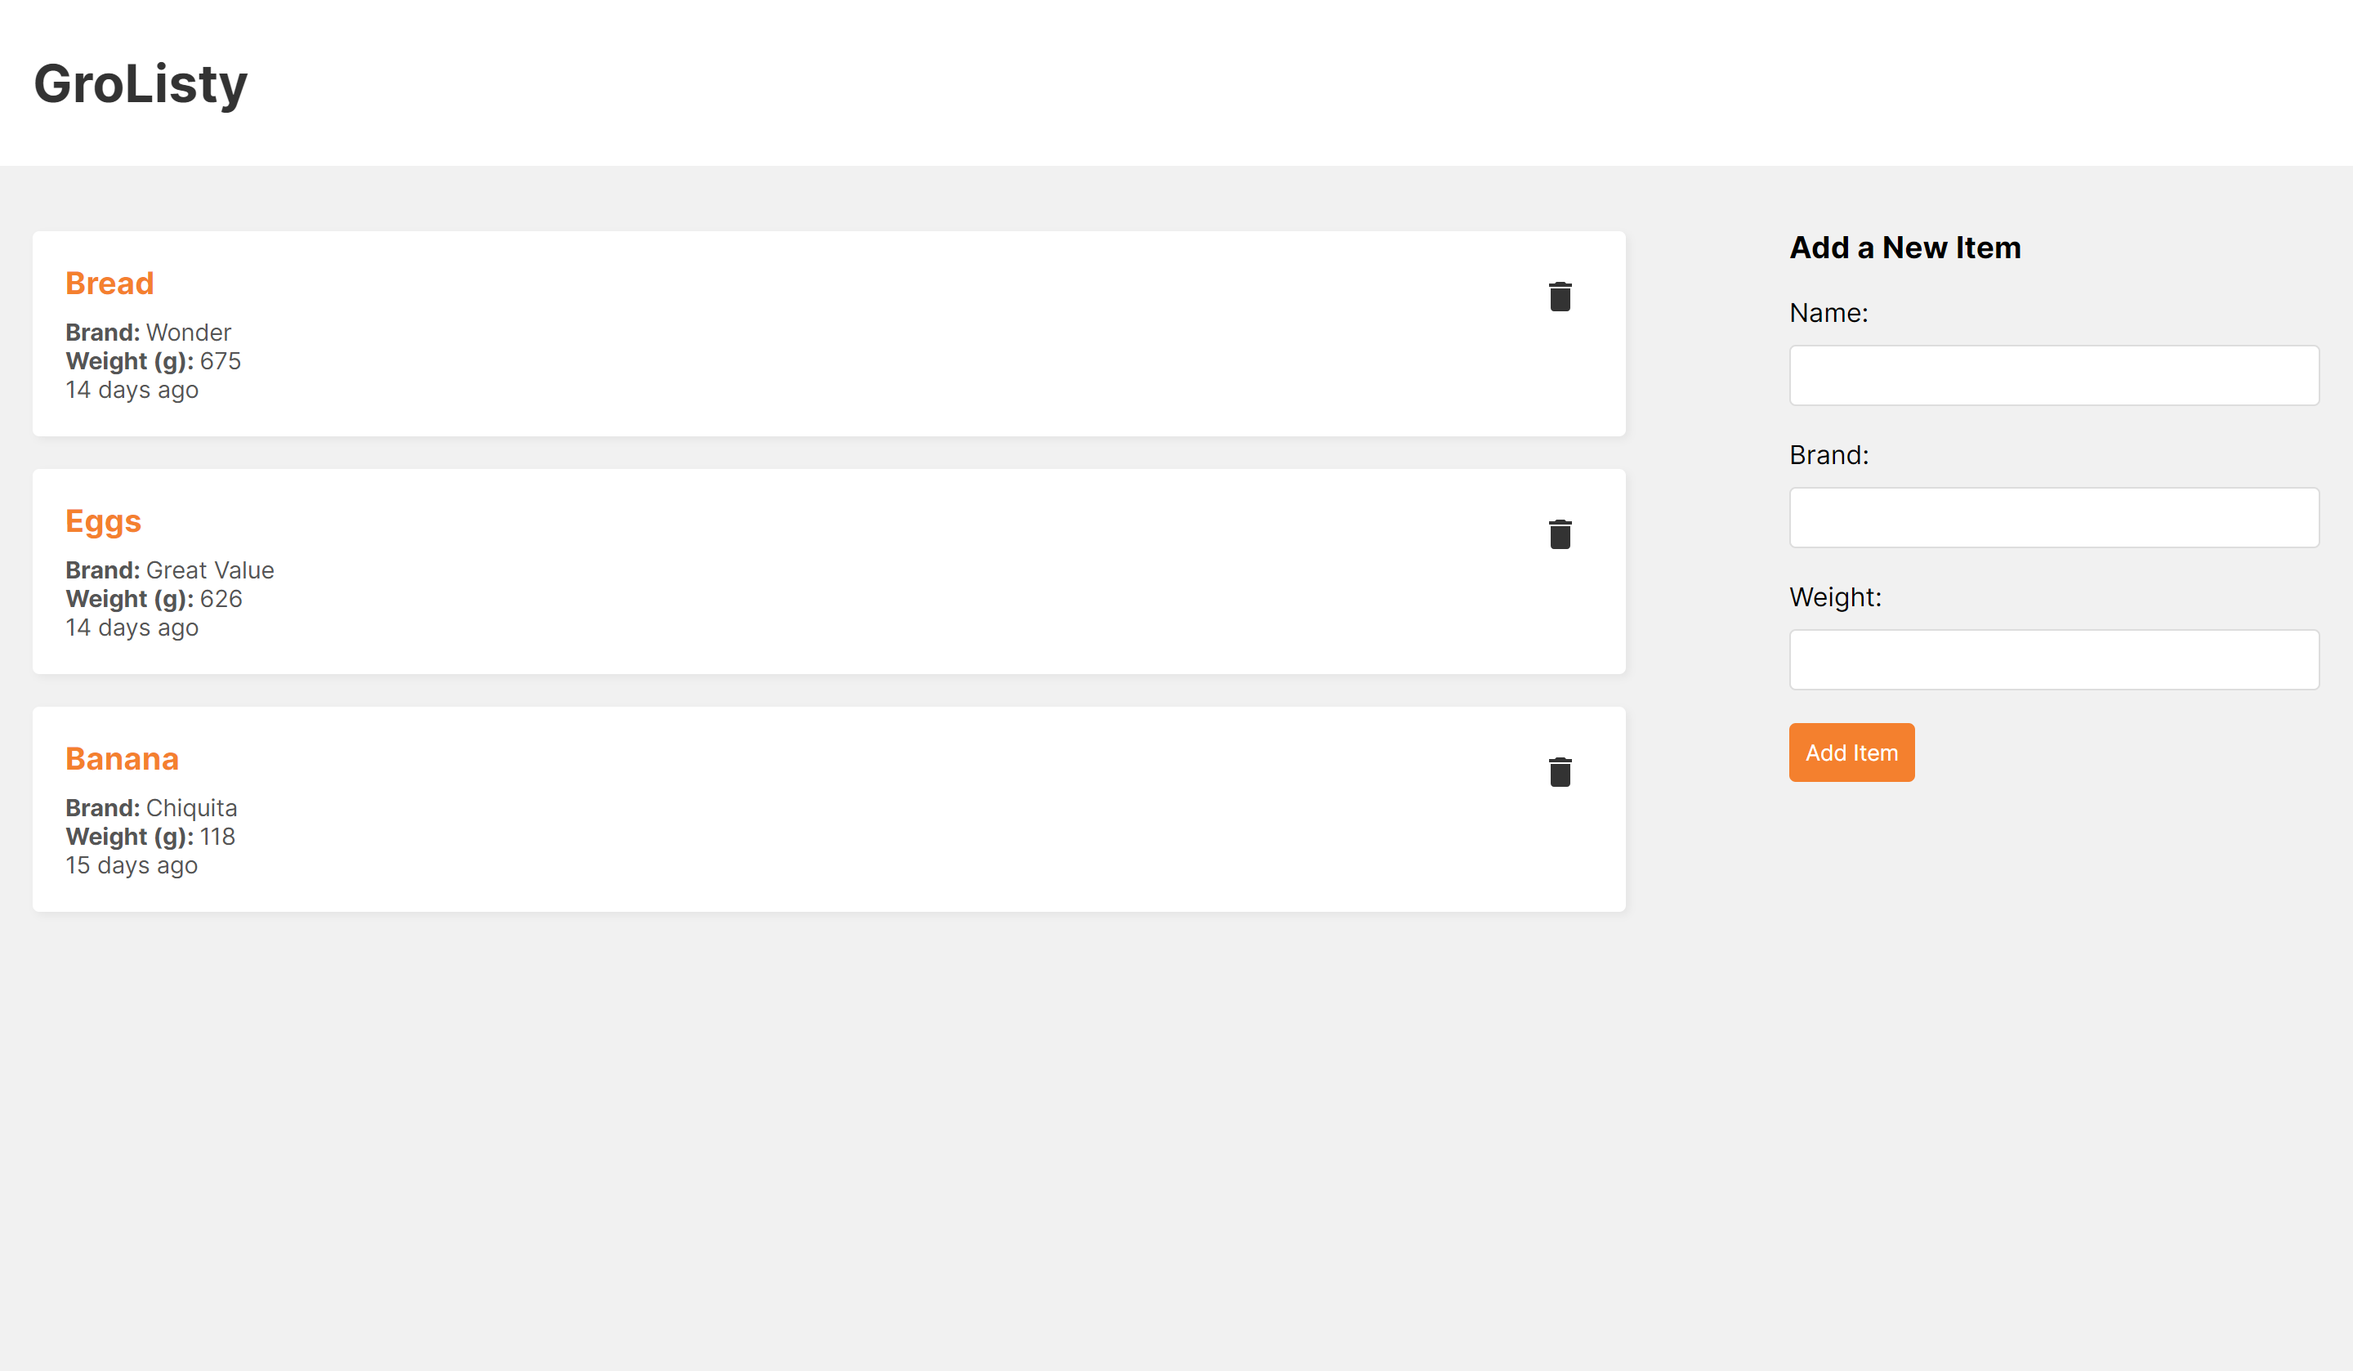
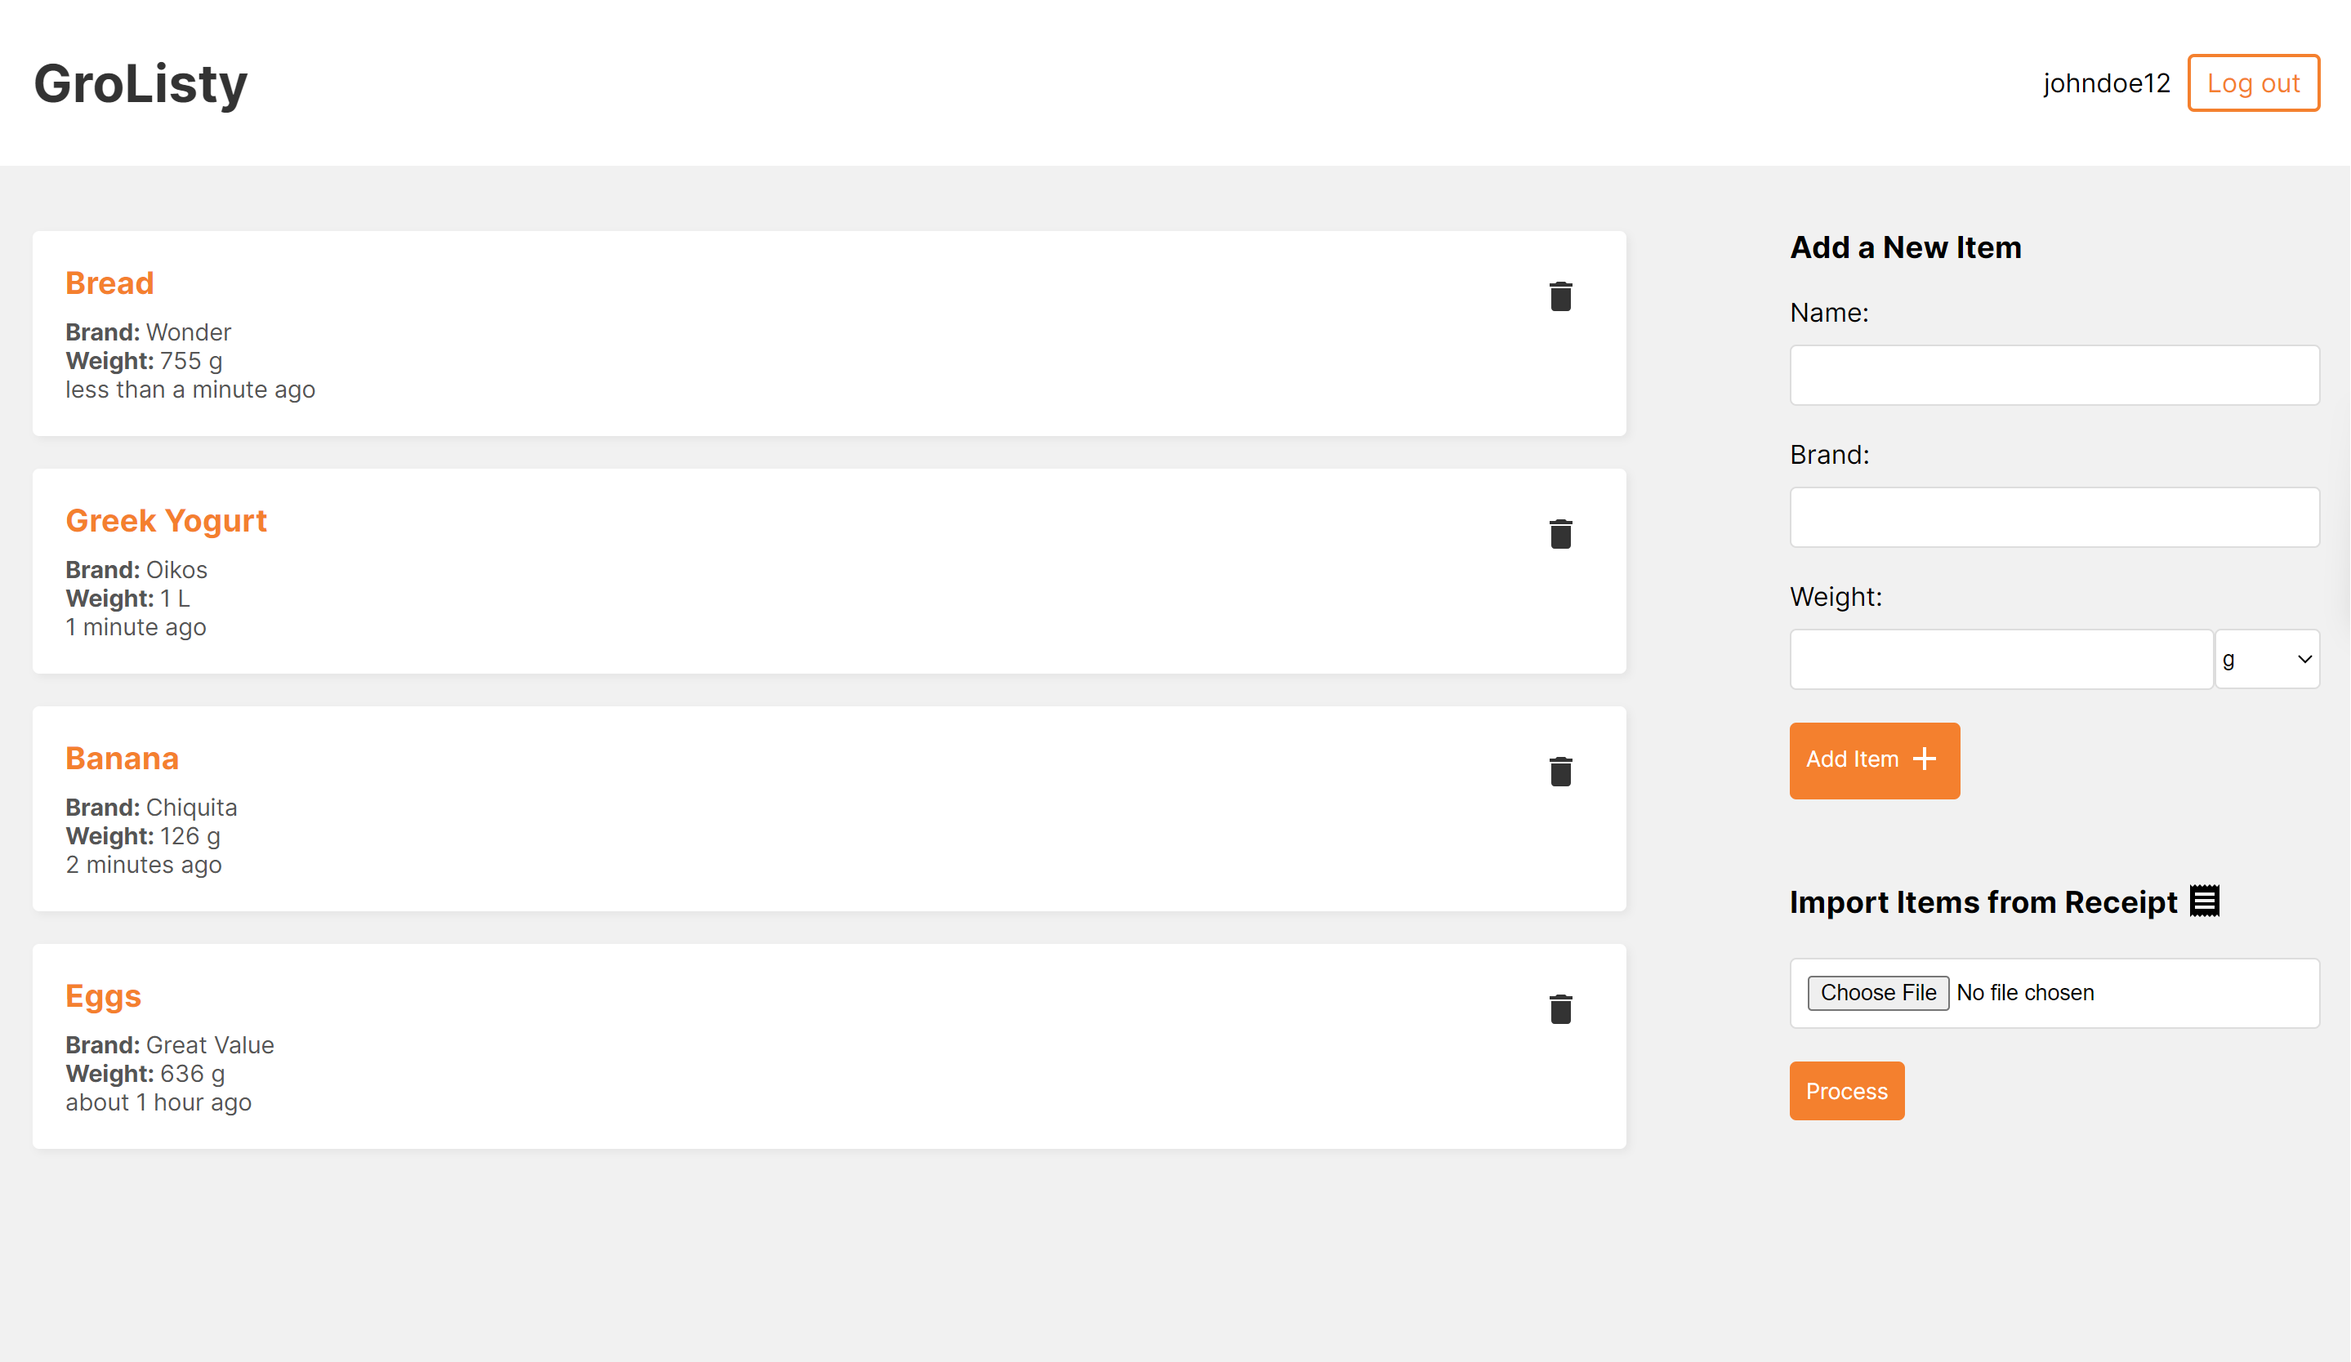
Updated GroListy project description and images

diff --git a/src/helpers/ProjectList.js b/src/helpers/ProjectList.js
@@ -6,6 +6,7 @@ import HangBotLogo from "../assets/hangbot-logo.png";
 import AssignmentThreeLogo from "../assets/assignment-three-logo.png";
 import GroListyImageOne from "../assets/grolisty-image-one.png";
 import GroListyImageTwo from "../assets/grolisty-image-two.png";
+import GroListyImageThree from "../assets/grolisty-image-three.png";
 import TabOrgImageOne from "../assets/taborg-image-one.png";
 import TabOrgImageTwo from "../assets/taborg-image-two.png";
 import IceGramImageOne from "../assets/icegram-image-one.png";
@@ -18,16 +19,17 @@ import AThreeWebsiteImageOne from "../assets/assignment-three-image-one.png";
 import AThreeWebsiteImageTwo from "../assets/assignment-three-image-two.png";
 
 
-
 export const ProjectList = [
     {
         name: "GroListy",
         logo: GroListyLogo,
-        skills: "JavaScript, MongoDB, ExpressJS, React, NodeJS, REST APIs, HTML, CSS",
+        skills: "JavaScript, MongoDB, ExpressJS, React, NodeJS, REST APIs, Postman, Puppeteer, Tesseract.js, JSON Web Tokens, HTML, CSS",
         imageOne: GroListyImageOne,
         imageTwo: GroListyImageTwo,
-        descriptionOne: "GroListy is a full-stack grocery list web application built using the MERN stack: MongoDB, ExpressJS, React, and NodeJS. I built this project to expand my web development skills and gain experience building and consuming REST APIs using a modern NoSQL database. Some important skills I have learned include the useReducer hook in React, which allowed me to update the context of the application on the frontend to make it responsive for the user. I added error handling to the item form and implemented useful error messages to display to the user. I also learned how to organize my components, pages and contexts into different folders. Lastly, I used the 60-30-10 color rule with CSS to improve the user interface's design.",
-        descriptionTwo: "I had difficulty implementing REST APIs, so to aid in solving issues I ran into during development, I used Postman to test API endpoints and for regression testing to ensure that they work as intended in later versions. In addition, I created a database schema for each item that is stored in the MongoDB Atlas Database by using the mongoose library. To further improve this project, I plan on adding authentication so that users can log into their personal account and view only items stored in their account. I also plan on adding an expiration date as key information that is tracked separately and is then used to notify the user to throw out expired goods and buy new groceries. One ambitious idea I have for the app, is to create a button that uses machine learning to automatically log items based on a picture that is used as input.",
+        imageThree: GroListyImageThree,
+        descriptionOne: "GroListy is a full-stack grocery list web application built using the MERN stack: MongoDB, ExpressJS, React, and NodeJS. I built this project to expand my web development skills and gain experience building and consuming REST APIs using a modern NoSQL database. Some important skills I have learned include the useReducer hook in React, which allowed me to update the context of the application on the frontend to make it responsive for the user. I added error handling to the item form and implemented useful error messages to display to the user. I also learned how to organize my components, pages and contexts using MVC architecture. Lastly, I used the 60-30-10 color rule with CSS to improve the user interface's design.",
+        descriptionTwo: "I had difficulty implementing REST APIs, so to aid in solving issues I ran into during development, I used Postman to test API endpoints and for regression testing to ensure that they work as intended in later versions. In addition, I created a database schema for each item that is stored in the MongoDB Atlas Database by using the mongoose library. I also took the project a step further by adding authentication so that users can log into their personal account and view only items stored in their account with an email by using JSON Web Tokens, bcrypt and validator. I had to create new APIs to handle signing up and logging in of users and ensure that both the backend and frontend were secure to prevent users from injecting data to the database without logging in.",
+        descriptionThree: "After months of testing and research, I was able to create a Receipt OCR feature for the app. It allows users to input an image of a receipt that will automatically extract product information from vendors to be entered into their list. This saves time for the user having to manually input each item on a large list of items bought from a grocery store. It uses Tesseract.js optical character recognition to extract SKU numbers from the receipt, then it web scrapes on the vendor's website by using Puppeteer headless browsing to parse key information needed to add an item to the list. I made the items editable so that if there are any inaccuracies in the product being imported, the user can change them before adding them all to their list. I also plan on adding an expiration date as key information that is tracked separately and is then used to notify the user to throw out expired goods and buy new groceries.",
         link: "https://github.com/mansoorhu10/grolisty",
     },
     {
@@ -36,8 +38,10 @@ export const ProjectList = [
         skills: "JavaScript, React, Chrome tabs and storage APIs, HTML, CSS",
         imageOne: TabOrgImageOne,
         imageTwo: TabOrgImageTwo,
+        imageThree: null,
         descriptionOne: "TabOrg is a tab organizer chrome extension that is designed to help save google chrome tabs into groups for later use. I built this project from scratch without React and styling initially, for a high school computer science course. Then later on, I reworked the entire extension to create an interactive user interface using React. I had to redo how the extension saves tabs into groups to include new information so that I could add new features that were not available in the first version of the project. I even updated the manifest_version of the project since the original extension was using a deprecated version, which ultimately pushed me to use the newest Chrome storage API methods to save data.",
         descriptionTwo: "I gained lots of experience using the Chrome tabs and storage API to create functionality for the extension and I also learned about how to use asynchronous functions in JavaScript. Aside from the dark mode toggle button, this entire project was designed and created from scratch and because I was inspired by how frustrating it was to manage important tabs that I needed open for school.",
+        descriptionThree: null,
         link: "https://github.com/mansoorhu10/TabOrg",
     },
     {
@@ -46,8 +50,10 @@ export const ProjectList = [
         skills: "Firebase, React, JavaScript, HTML, CSS",
         imageOne: IceGramImageOne,
         imageTwo: IceGramImageTwo,
+        imageThree: null,
         descriptionOne: "IceGram is a photo gallery web app created with React and Firebase. This was an edit of a YouTube project tutorial called FireGram. Users can add images to the site and view them later as they are saved in a non-relational database. I learned how to use Firebase's firestore and storage to save images. I also used the framer-motion library to aid in creating aesthetically pleasing animations for adding images to the webpage.",
         descriptionTwo: "It also includes features like being able to click on an image in order to enlarge it and tracking the progress of an image being uploaded to the webpage and displaying it using a progress bar with JavaScript logic. I hope to continue working on this project in the future by learning how to add user authentication to it and learning how to improve security for the database that stores data.",
+        descriptionThree: null,
         link: "https://github.com/mansoorhu10/icegram",
     },
     {
@@ -56,8 +62,10 @@ export const ProjectList = [
         skills: "Python, Pygame",
         imageOne: CalmifyImageOne,
         imageTwo: CalmifyImageTwo,
+        imageThree: null,
         descriptionOne: "Calmify is a project I collaborated on with Faris Choudhry during UofTHacks VIII. It is a stress-relief application, designed to improve the mental health of users through a series of minigames. The program can be used as a timer for 25 minutes to motivate users to work. Once the timer finishes, a minigame becomes playable with a 5 minute timer. For demo purposes, we decided to create 1 of our 5 minigames called Coin Quest. In this game, the player has to collect as many coins until the timer ends, in order to reach a high score. Along with relaxing music and rewarding sound effects, the game serves as a great way to take a break from work. The 25 minute and 5 minute timers are derived from a time management method called the Pomodoro technique. It is an amazing way to focus on a task, while still regularly taking breaks to avoid the buildup of stress and anxiety. Overall, it thoroughly impacts people by encouraging them to maintain a positive and determined mindset while working by rewarding them with breaks, all of which contribute to a stronger mental health.",
         descriptionTwo: "We built Calmify using a Python module called Pygame. We programmed a player, button and coin class to keep everything organized and initialized instances with ease. Our main game loop is located in gameloop(). It holds all the code responsible for running Coin Quest. It contains the character movement, game timer and other features such as keeping count of the score. One aspect of the project that I'm proud of us for accomplishing is figuring out how to create the user interface for the main menu. We were able to apply newly gained knowledge about Pygame to create a menu system that seamlessly integrated with the other parts of the program during the hackathon.",
+        descriptionThree: null,
         link: "https://github.com/mansoorhu10/Calmify",
     },
     {
@@ -66,8 +74,10 @@ export const ProjectList = [
         skills: "Python, Pygame",
         imageOne: HangBotImageOne,
         imageTwo: HangBotImageTwo,
+        imageThree: null,
         descriptionOne: "HangBot is a project that I worked on alongside a team of three other members during Hack The North 2020++, an online hackathon. This program is an implementation of the popular game known as 'Hangman'. The word bank includes words that relate to topics like technology and the sciences. Once the game begins, the player can input a guess by pressing a key on their keyboard. There is a score counter, music, and sound effects, as well as win and lose screens. One of the fundamental skills I learned during this project was the ability to manage a large project efficiently. This was my first hackathon project with a group of people, so as a team we learned to collaborate by splitting up tasks and combining separate components that we were simultaneously working on by communicating effectively.",
         descriptionTwo: "I took responsibility of improving the user's gameplay experience by implementing music and sound effects using the Pygame mixer library. I also aided in creating a string storage system using arrays and efficient conditional statements which contributed to a decrease in unused memory. Additionally, I improved the screen changing system by implementing screen numbers with conditional statements and Boolean variables.",
+        descriptionThree: null,
         link: "https://github.com/Wevie0/HacktheNorth2020",
     },
     {
@@ -76,8 +86,10 @@ export const ProjectList = [
         skills: "HTML, CSS",
         imageOne: AThreeWebsiteImageOne,
         imageTwo: AThreeWebsiteImageTwo,
+        imageThree: null,
         descriptionOne: "This is my Assignment 3 submission for an Introduction to Website Design and Development course that I took in the Winter 2022 semester. It incorporates many components of HTML, CSS, and design fundamentals that I learned from the course. The prompt for this assignment was to create an HTML website with an external CSS style sheet that spans across at least three separate webpages and can cover any topic of choice. So, I decided to create a website about one of my favourite foods: sushi.",
         descriptionTwo: "I focused heavily on making an aesthetically appealing website with amazing UI design. I also specifically included a side navigation menu that links to subheadings within a specific page to improve navigability. The project portfolio website you are on right now builds on the fundamentals of web design that I applied in this earlier project.",
+        descriptionThree: null,
         link: "https://github.com/mansoorhu10/A3-Website-Design",
     },
 ];

diff --git a/src/pages/ProjectDisplay.js b/src/pages/ProjectDisplay.js
@@ -19,7 +19,7 @@ const ProjectDisplay = () => {
 
     const project = ProjectList[id];
     const logoAlt = project.name + " Logo";
-    const imageOneAlt = "An image displaying what " + project.name + " looks like";
+    const imageAlt = "An image displaying what " + project.name + " looks like";
 
     return  (
         <div>
@@ -43,7 +43,7 @@ const ProjectDisplay = () => {
 
                     <p className="project-writing">
                         <div className="description-image">
-                            <img className="image-one" src={project.imageOne} alt={imageOneAlt}></img>
+                            <img className="image-one" src={project.imageOne} alt={imageAlt}></img>
                             
                             <div className="project-skills">
                                 <b>Technologies:</b> {project.skills}
@@ -59,7 +59,7 @@ const ProjectDisplay = () => {
                         <br />
 
                         <div className="description-image">
-                            <img className="image-one" src={project.imageTwo} alt={imageOneAlt}></img>
+                            <img className="image-one" src={project.imageTwo} alt={imageAlt}></img>
                         </div>
 
                         <div className="project-description">
@@ -68,13 +68,22 @@ const ProjectDisplay = () => {
 
                         <br />
 
+                        {project.imageThree && <div>
+                            <div className="description-image">
+                                <img className="image-one" src={project.imageThree} alt={imageAlt}></img>
+                            </div>
+
+                            <div className="project-description">
+                                <p>{project.descriptionThree}</p>
+                            </div>    
+                        </div> }
+
                         <div className="source-code">
                             <p className="source-text">
                                 <b>View the project source code here:</b> 
                             </p>
                             <div className="logo-child"><a href={project.link} target={"_blank"} rel="noreferrer"><GitHub /></a></div>
                         </div>
-
                     </p>
                 </motion.div>
             </div>
